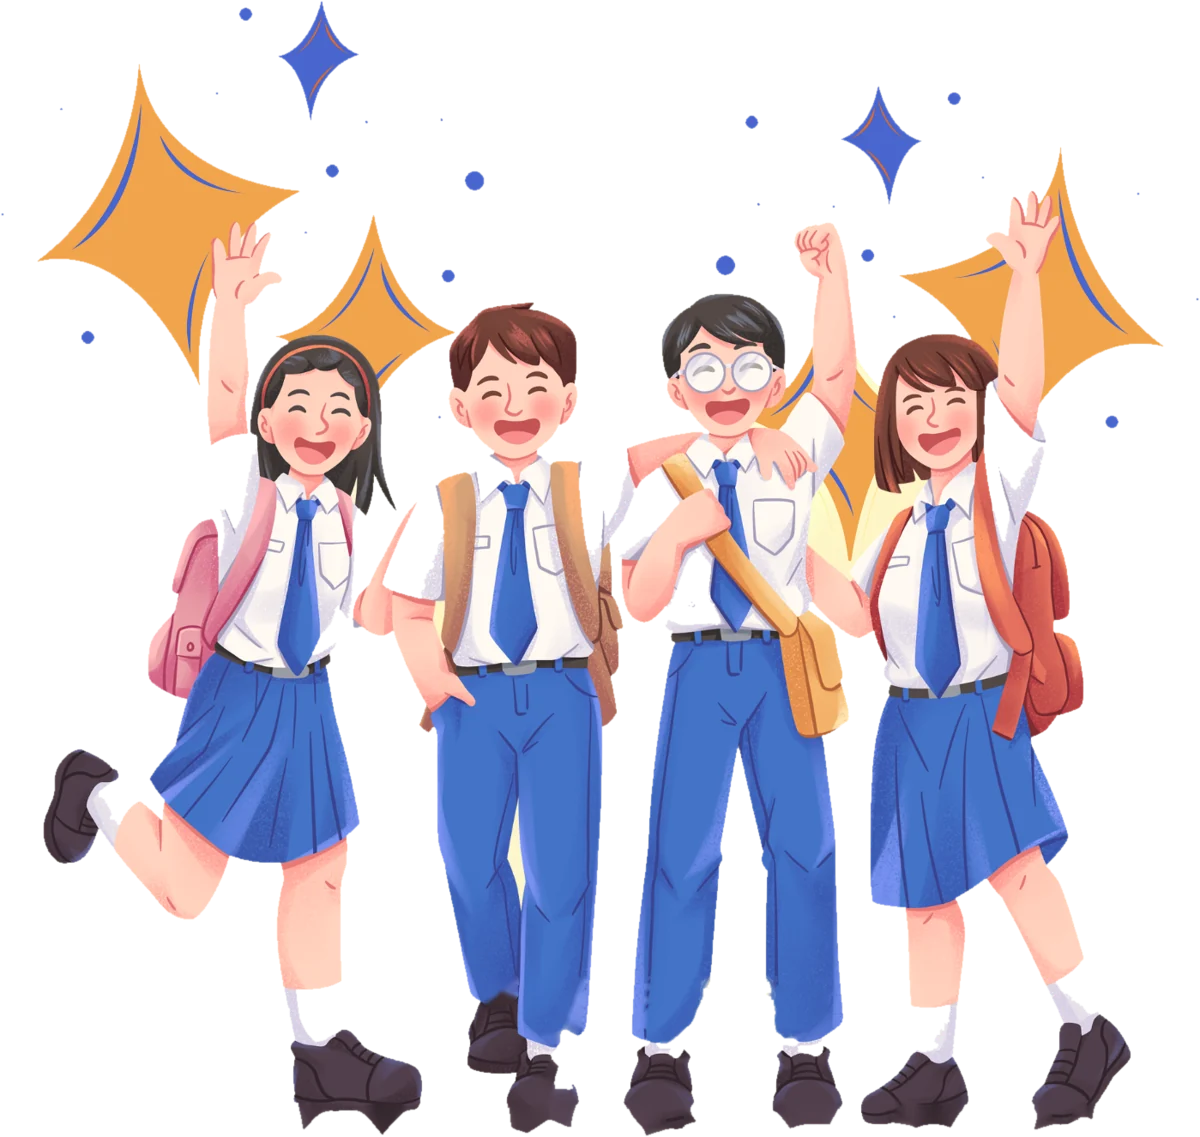
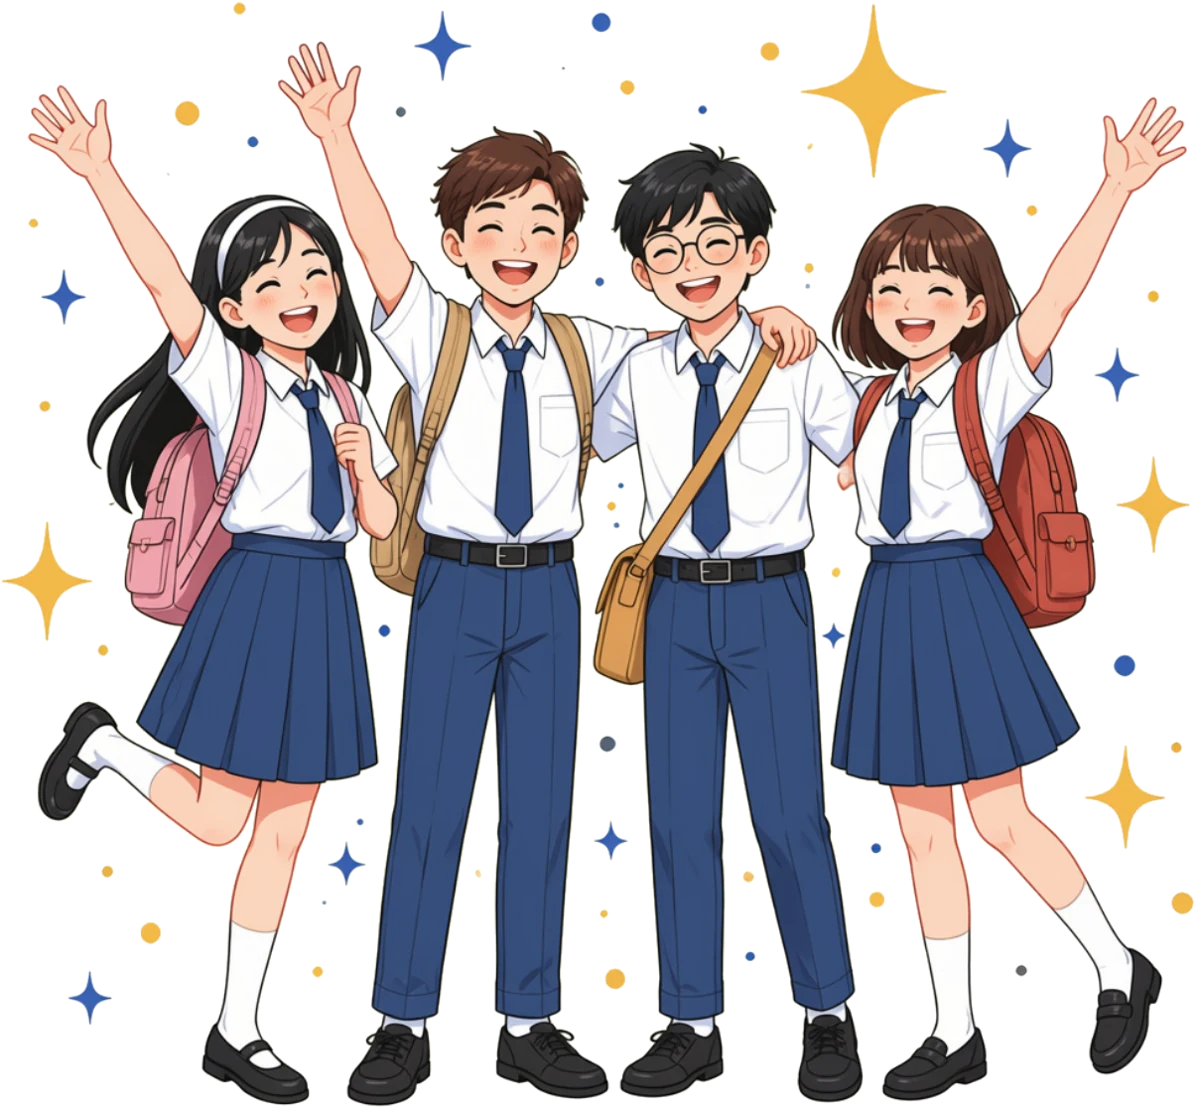
Ganti ilustrasi siswa dengan gambar baru dari Farel
Claude-Session: https://claude.ai/code/session_013Fdjr5vnCVxuG2wkYZQG8v

diff --git a/akm.html b/akm.html
@@ -35,7 +35,7 @@
     <p class="privacy">Jawaban refleksi dan skor kuismu akan dikirim ke <b>guru BK SMP Labschool Ciracas</b> dan hanya dibaca oleh guru BK. Tulis dengan jujur. Kartu yang terasa berat boleh kamu lewati.</p>
     <p id="fErr" role="alert"></p>
     <div><button class="btn" type="submit"><span class="bintang" aria-hidden="true"></span>Mulai main</button></div>
-  </form><img src="img/siswa.webp" alt="Empat siswa SMP Labschool Ciracas berseragam putih biru" width="1200" height="1137" loading="lazy"></div>
+  </form><img src="img/siswa.webp" alt="Empat siswa SMP Labschool Ciracas berseragam putih biru" width="1200" height="1109" loading="lazy"></div>
 </section>
 
 <section id="menu" hidden aria-labelledby="judul-menu">

diff --git a/dunia.html b/dunia.html
@@ -35,7 +35,7 @@
     <p class="privacy">Jawaban refleksi dan skor kuismu akan dikirim ke <b>guru BK SMP Labschool Ciracas</b> dan hanya dibaca oleh guru BK. Tulis dengan jujur. Kartu yang terasa berat boleh kamu lewati.</p>
     <p id="fErr" role="alert"></p>
     <div><button class="btn" type="submit"><span class="bintang" aria-hidden="true"></span>Mulai main</button></div>
-  </form><img src="img/siswa.webp" alt="Empat siswa SMP Labschool Ciracas berseragam putih biru" width="1200" height="1137" loading="lazy"></div>
+  </form><img src="img/siswa.webp" alt="Empat siswa SMP Labschool Ciracas berseragam putih biru" width="1200" height="1109" loading="lazy"></div>
 </section>
 
 <section id="menu" hidden aria-labelledby="judul-menu">

diff --git a/minat.html b/minat.html
@@ -35,7 +35,7 @@
     <p class="privacy">Jawaban refleksi dan skor kuismu akan dikirim ke <b>guru BK SMP Labschool Ciracas</b> dan hanya dibaca oleh guru BK. Tulis dengan jujur. Kartu yang terasa berat boleh kamu lewati.</p>
     <p id="fErr" role="alert"></p>
     <div><button class="btn" type="submit"><span class="bintang" aria-hidden="true"></span>Mulai main</button></div>
-  </form><img src="img/siswa.webp" alt="Empat siswa SMP Labschool Ciracas berseragam putih biru" width="1200" height="1137" loading="lazy"></div>
+  </form><img src="img/siswa.webp" alt="Empat siswa SMP Labschool Ciracas berseragam putih biru" width="1200" height="1109" loading="lazy"></div>
 </section>
 
 <section id="menu" hidden aria-labelledby="judul-menu">

diff --git a/napza.html b/napza.html
@@ -35,7 +35,7 @@
     <p class="privacy">Jawaban refleksi dan skor kuismu akan dikirim ke <b>guru BK SMP Labschool Ciracas</b> dan hanya dibaca oleh guru BK. Tulis dengan jujur. Kartu yang terasa berat boleh kamu lewati.</p>
     <p id="fErr" role="alert"></p>
     <div><button class="btn" type="submit"><span class="bintang" aria-hidden="true"></span>Mulai main</button></div>
-  </form><img src="img/siswa.webp" alt="Empat siswa SMP Labschool Ciracas berseragam putih biru" width="1200" height="1137" loading="lazy"></div>
+  </form><img src="img/siswa.webp" alt="Empat siswa SMP Labschool Ciracas berseragam putih biru" width="1200" height="1109" loading="lazy"></div>
 </section>
 
 <section id="menu" hidden aria-labelledby="judul-menu">

diff --git a/remaja.html b/remaja.html
@@ -35,7 +35,7 @@
     <p class="privacy">Jawaban refleksi dan skor kuismu akan dikirim ke <b>guru BK SMP Labschool Ciracas</b> dan hanya dibaca oleh guru BK. Tulis dengan jujur. Kartu yang terasa berat boleh kamu lewati.</p>
     <p id="fErr" role="alert"></p>
     <div><button class="btn" type="submit"><span class="bintang" aria-hidden="true"></span>Mulai main</button></div>
-  </form><img src="img/siswa.webp" alt="Empat siswa SMP Labschool Ciracas berseragam putih biru" width="1200" height="1137" loading="lazy"></div>
+  </form><img src="img/siswa.webp" alt="Empat siswa SMP Labschool Ciracas berseragam putih biru" width="1200" height="1109" loading="lazy"></div>
 </section>
 
 <section id="menu" hidden aria-labelledby="judul-menu">

diff --git a/teman.html b/teman.html
@@ -35,7 +35,7 @@
     <p class="privacy">Jawaban refleksi dan skor kuismu akan dikirim ke <b>guru BK SMP Labschool Ciracas</b> dan hanya dibaca oleh guru BK. Tulis dengan jujur. Kartu yang terasa berat boleh kamu lewati.</p>
     <p id="fErr" role="alert"></p>
     <div><button class="btn" type="submit"><span class="bintang" aria-hidden="true"></span>Mulai main</button></div>
-  </form><img src="img/siswa.webp" alt="Empat siswa SMP Labschool Ciracas berseragam putih biru" width="1200" height="1137" loading="lazy"></div>
+  </form><img src="img/siswa.webp" alt="Empat siswa SMP Labschool Ciracas berseragam putih biru" width="1200" height="1109" loading="lazy"></div>
 </section>
 
 <section id="menu" hidden aria-labelledby="judul-menu">

diff --git a/index.html b/index.html
@@ -31,7 +31,7 @@
         <span class="catatan">6 bab · 54 kartu · 6 kuis</span>
       </div>
     </div>
-    <figure class="shutter"><img src="img/siswa.webp" alt="Empat siswa SMP Labschool Ciracas berseragam putih biru melompat gembira, ilustrasi dari cover buku" width="1200" height="1137"></figure>
+    <figure class="shutter"><img src="img/siswa.webp" alt="Empat siswa SMP Labschool Ciracas berseragam putih biru melambaikan tangan dengan gembira" width="1200" height="1109"></figure>
   </div>
 </section>
 
